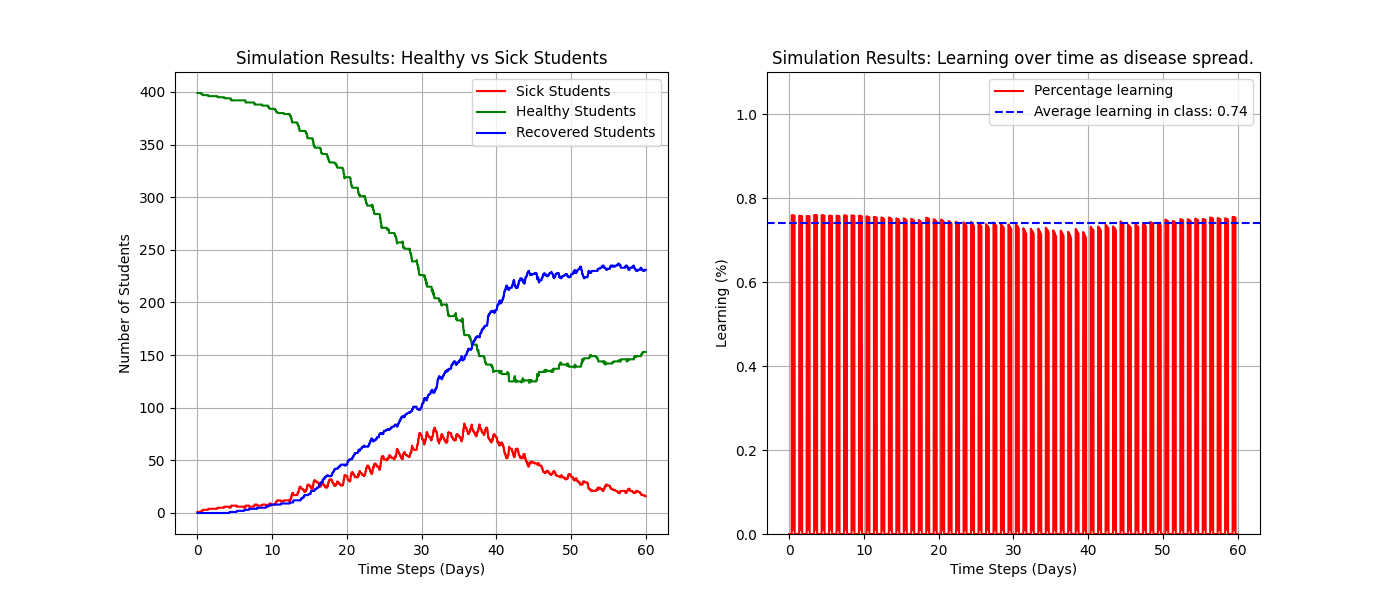
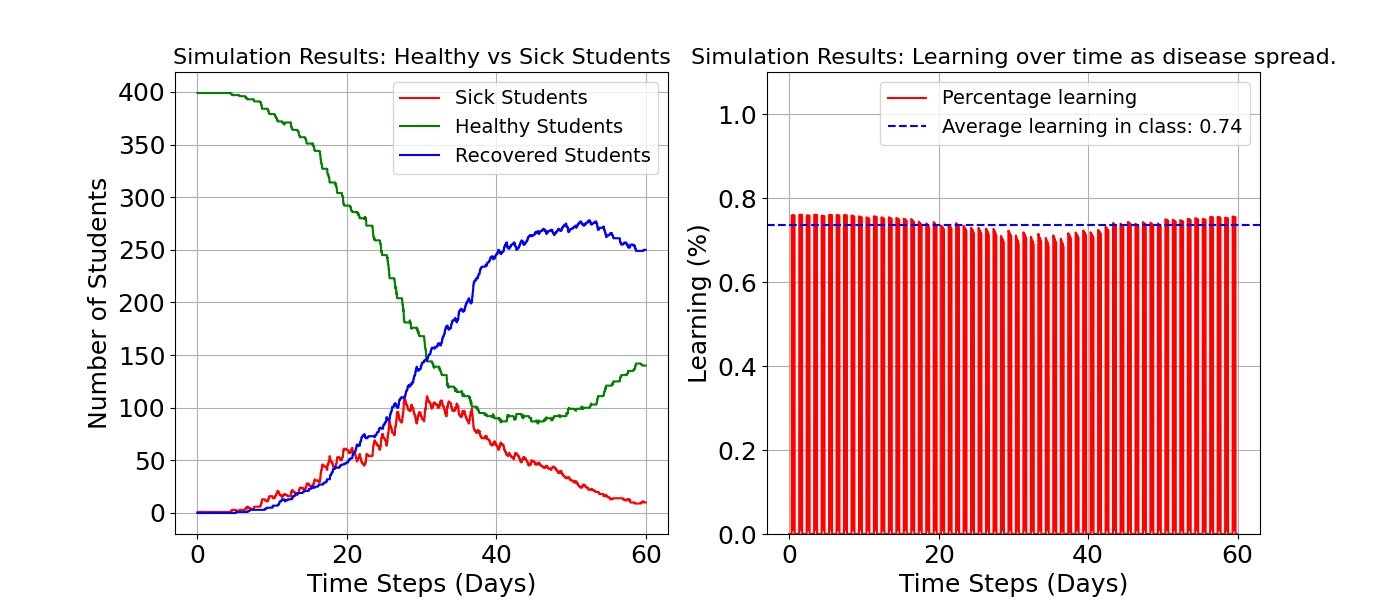
Increased the font size of the plots, as well as created all the plots for the repport

diff --git a/Plot.py b/Plot.py
@@ -1,5 +1,6 @@
 import os
 import matplotlib.pyplot as plt
+import matplotlib
 import numpy as np
 import Students
 import Buildings
@@ -62,7 +63,11 @@ def record_simulation_data(time_step):
     recorded_recovered_students.append(recovered_students_count)
     
 
-def save_plot(infectious_rate, recovery_rate,social_dist,stay_home_thresh):
+import os
+import numpy as np
+import matplotlib.pyplot as plt
+
+def save_plot(infectious_rate, recovery_rate, social_dist, stay_home_thresh):
     # Define the folder path for saving the plot
     plot_folder = "Plot"
 
@@ -70,7 +75,11 @@ def save_plot(infectious_rate, recovery_rate,social_dist,stay_home_thresh):
     if not os.path.exists(plot_folder):
         os.makedirs(plot_folder)
 
-    final_file_name = str(Students.total_students) + "students_" + str(infectious_rate) + "Irate_" + str(recovery_rate) + "Rrate_" + str(stay_home_thresh) + "StayHome_" + str(social_dist)+ "social dist.png"
+    final_file_name = (
+        str(Students.total_students) + "students_" + str(infectious_rate) + "Irate_" + 
+        str(recovery_rate) + "Rrate_" + str(stay_home_thresh) + "StayHome_" + 
+        str(social_dist) + "social dist.png"
+    )
 
     # Full path for the plot file
     plot_filename = os.path.join(plot_folder, final_file_name)
@@ -78,30 +87,55 @@ def save_plot(infectious_rate, recovery_rate,social_dist,stay_home_thresh):
     fig, ax = plt.subplots(1, 2, figsize=(14, 6))
 
     # Plot recorded data
-    ax[0].plot(np.array(recorded_time_steps) / Settings.time_step_per_day, recorded_sick_students, label="Sick Students", color="red")
-    ax[0].plot(np.array(recorded_time_steps) / Settings.time_step_per_day, recorded_healthy_students, label="Healthy Students", color="green")
-    ax[0].plot(np.array(recorded_time_steps) / Settings.time_step_per_day, recorded_recovered_students, label="Recovered Students", color="blue")
-    
-    ax[0].set_xlabel("Time Steps (Days)")
-    ax[0].set_ylabel("Number of Students")
-    ax[0].set_title("Simulation Results: Healthy vs Sick Students")
-    ax[0].legend()
+    ax[0].plot(
+        np.array(recorded_time_steps) / Settings.time_step_per_day, 
+        recorded_sick_students, 
+        label="Sick Students", 
+        color="red"
+    )
+    ax[0].plot(
+        np.array(recorded_time_steps) / Settings.time_step_per_day, 
+        recorded_healthy_students, 
+        label="Healthy Students", 
+        color="green"
+    )
+    ax[0].plot(
+        np.array(recorded_time_steps) / Settings.time_step_per_day, 
+        recorded_recovered_students, 
+        label="Recovered Students", 
+        color="blue"
+    )
+
+    ax[0].set_xlabel("Time Steps (Days)", fontsize=18)
+    ax[0].set_ylabel("Number of Students", fontsize=18)
+    ax[0].set_title("Simulation Results: Healthy vs Sick Students", fontsize=16)
+    ax[0].legend(fontsize=14)
+    ax[0].tick_params(axis='both', which='major', labelsize=18)
     ax[0].grid(True)
 
-
-    ## Non-zero-learning refers to the time when the students are at school.
-    ## Set threshold to 0.02 since some people study during lunch, but that should not be incorporated in the average.
-    non_zero_learning = np.array([rate for rate in student_learning if rate >= 0.02]) 
-    avg_learning = np.sum(non_zero_learning)/len(non_zero_learning)
+    # Non-zero-learning refers to the time when the students are at school.
+    non_zero_learning = np.array([rate for rate in student_learning if rate >= 0.02])
+    avg_learning = np.sum(non_zero_learning) / len(non_zero_learning)
 
     # Plotting on the second subplot
-    ax[1].plot(np.array(recorded_time_steps) / Settings.time_step_per_day, student_learning, label="Percentage learning", color="red")
-    ax[1].axhline(y=avg_learning, color='blue', linestyle='--', label=f'Average learning in class: {avg_learning:.2f}')
-    ax[1].set_xlabel("Time Steps (Days)")
-    ax[1].set_ylabel("Learning (%)")
-    ax[1].set_title("Simulation Results: Learning over time as disease spread.")
-    ax[1].set_ylim([0,1.1])
-    ax[1].legend()
+    ax[1].plot(
+        np.array(recorded_time_steps) / Settings.time_step_per_day, 
+        student_learning, 
+        label="Percentage learning", 
+        color="red"
+    )
+    ax[1].axhline(
+        y=avg_learning, 
+        color='blue', 
+        linestyle='--', 
+        label=f'Average learning in class: {avg_learning:.2f}'
+    )
+    ax[1].set_xlabel("Time Steps (Days)", fontsize=18)
+    ax[1].set_ylabel("Learning (%)", fontsize=18)
+    ax[1].set_title("Simulation Results: Learning over time as disease spread.", fontsize=16)
+    ax[1].set_ylim([0, 1.1])
+    ax[1].legend(fontsize=14)
+    ax[1].tick_params(axis='both', which='major', labelsize=18)
     ax[1].grid(True)
 
     # Save the plot in the specified folder
@@ -111,3 +145,4 @@ def save_plot(infectious_rate, recovery_rate,social_dist,stay_home_thresh):
     # plt.show()
 
     print(f"Plot saved as {plot_filename}")
+

diff --git a/Settings.py b/Settings.py
@@ -4,15 +4,15 @@ number_of_students=400
 
 max_capacity=100 #the maximum capacity of each building
 max_capacity_caffeteria=400 # same as number of students.
-public_distancing_precentage=0.25
+public_distancing_precentage=1
 
 building_capacity=int(max_capacity*public_distancing_precentage)
 rate_of_dissease_spread=0.001
-recovery_rate=0.0003
+recovery_rate=0.00003
 incubation_rate=0.001
 suseptible_again_probability=0.0001
 
-stay_at_home_threshold=0.25
+stay_at_home_threshold=1.1
 
 patient_zero_index=50
 
